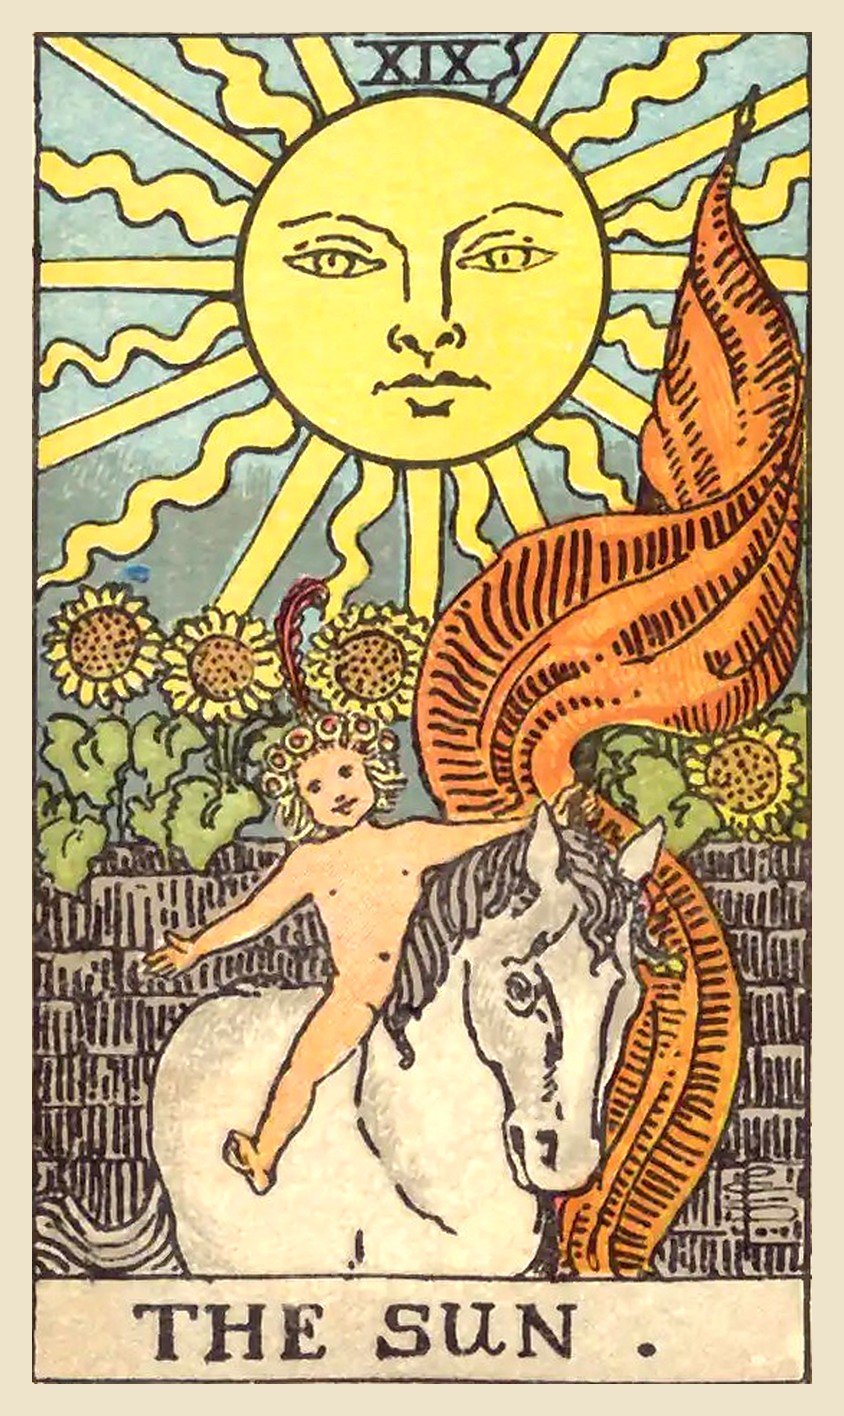
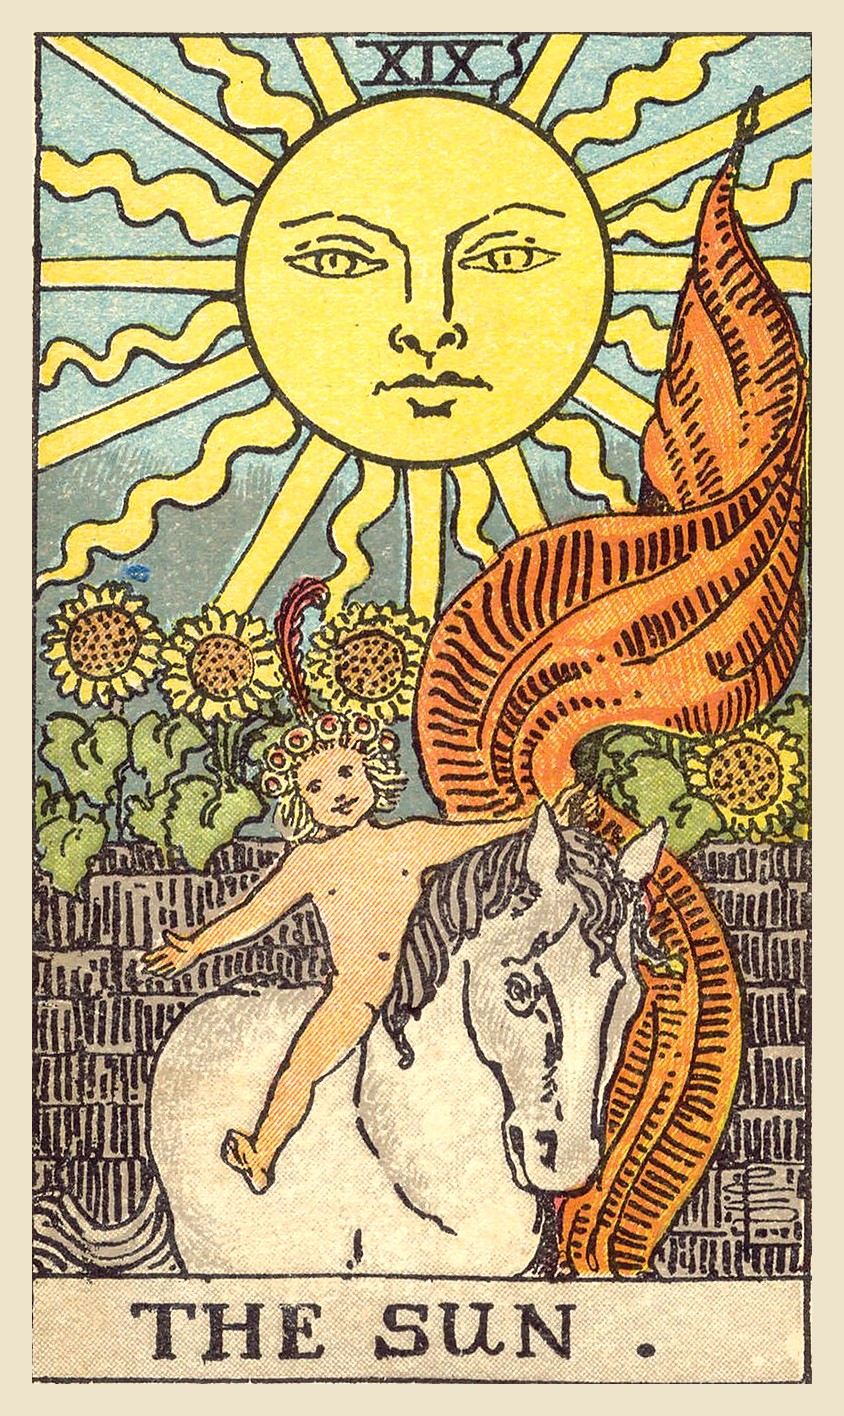
Upgrade more scans to full size; stop cleanly when rate-limited
21 of 78 cards now use Wikimedia's full-size thumbnails. The fetch script now saves its
records and exits with a message when Wikimedia keeps refusing downloads, instead of
crashing.

Claude-Session: https://claude.ai/code/session_01VaK2LxMS9AmaPMg3JXPAQf

diff --git a/tools/fetch_card_images.py b/tools/fetch_card_images.py
@@ -225,7 +225,12 @@ def main():
         for e in entries:
             if local_copy(e["id"]) == "commons":
                 continue
-            data = get(e["downloaded"], binary=True)
+            try:
+                data = get(e["downloaded"], binary=True)
+            except RuntimeError:
+                # Wikimedia's limit applies to every file, so stop and try again later.
+                print("Wikimedia is still rate-limiting downloads; run this again later.")
+                break
             check_image(e["commons"], data, e)
             (RAW_DIR / f"{e['id']}.jpg").write_bytes(data)
             print(f"{e['id']}: downloaded", flush=True)

diff --git a/content/tarot/images/CREDITS.md b/content/tarot/images/CREDITS.md
@@ -43,8 +43,8 @@ line on the card edge and must not be used.
 | The Tower | `major-16-the-tower.jpg` | [RWS1909 - 16 Tower.jpeg](https://commons.wikimedia.org/wiki/File:RWS1909_-_16_Tower.jpeg) | 1909 | Public domain | commons |
 | The Star | `major-17-the-star.jpg` | [RWS1909 - 17 Star.jpeg](https://commons.wikimedia.org/wiki/File:RWS1909_-_17_Star.jpeg) | 1909 | Public domain | commons |
 | The Moon | `major-18-the-moon.jpg` | [RWS1909 - 18 Moon.jpeg](https://commons.wikimedia.org/wiki/File:RWS1909_-_18_Moon.jpeg) | 1909 | Public domain | commons |
-| The Sun | `major-19-the-sun.jpg` | [RWS1909 - 19 Sun.jpeg](https://commons.wikimedia.org/wiki/File:RWS1909_-_19_Sun.jpeg) | 1909 | Public domain | fallback |
-| Judgement | `major-20-judgement.jpg` | [RWS1909 - 20 Judgement.jpeg](https://commons.wikimedia.org/wiki/File:RWS1909_-_20_Judgement.jpeg) | 1909 | Public domain | fallback |
+| The Sun | `major-19-the-sun.jpg` | [RWS1909 - 19 Sun.jpeg](https://commons.wikimedia.org/wiki/File:RWS1909_-_19_Sun.jpeg) | 1909 | Public domain | commons |
+| Judgement | `major-20-judgement.jpg` | [RWS1909 - 20 Judgement.jpeg](https://commons.wikimedia.org/wiki/File:RWS1909_-_20_Judgement.jpeg) | 1909 | Public domain | commons |
 | The World | `major-21-the-world.jpg` | [RWS1909 - 21 World.jpeg](https://commons.wikimedia.org/wiki/File:RWS1909_-_21_World.jpeg) | 1909 | Public domain | fallback |
 | Ace of Cups | `cups-01.jpg` | [RWS1909 - Cups 01.jpeg](https://commons.wikimedia.org/wiki/File:RWS1909_-_Cups_01.jpeg) | 1909 | Public domain | fallback |
 | Two of Cups | `cups-02.jpg` | [RWS1909 - Cups 02.jpeg](https://commons.wikimedia.org/wiki/File:RWS1909_-_Cups_02.jpeg) | 1909 | Public domain | fallback |
